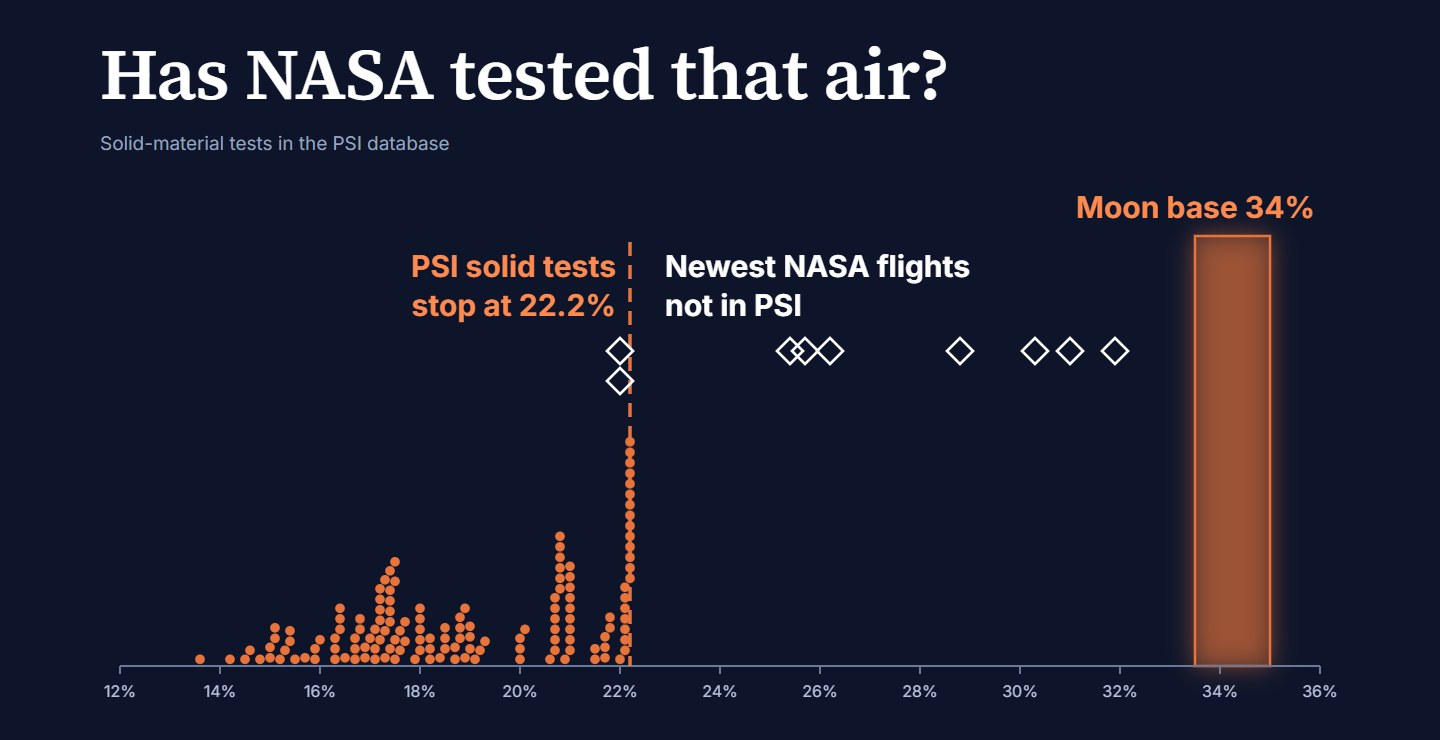
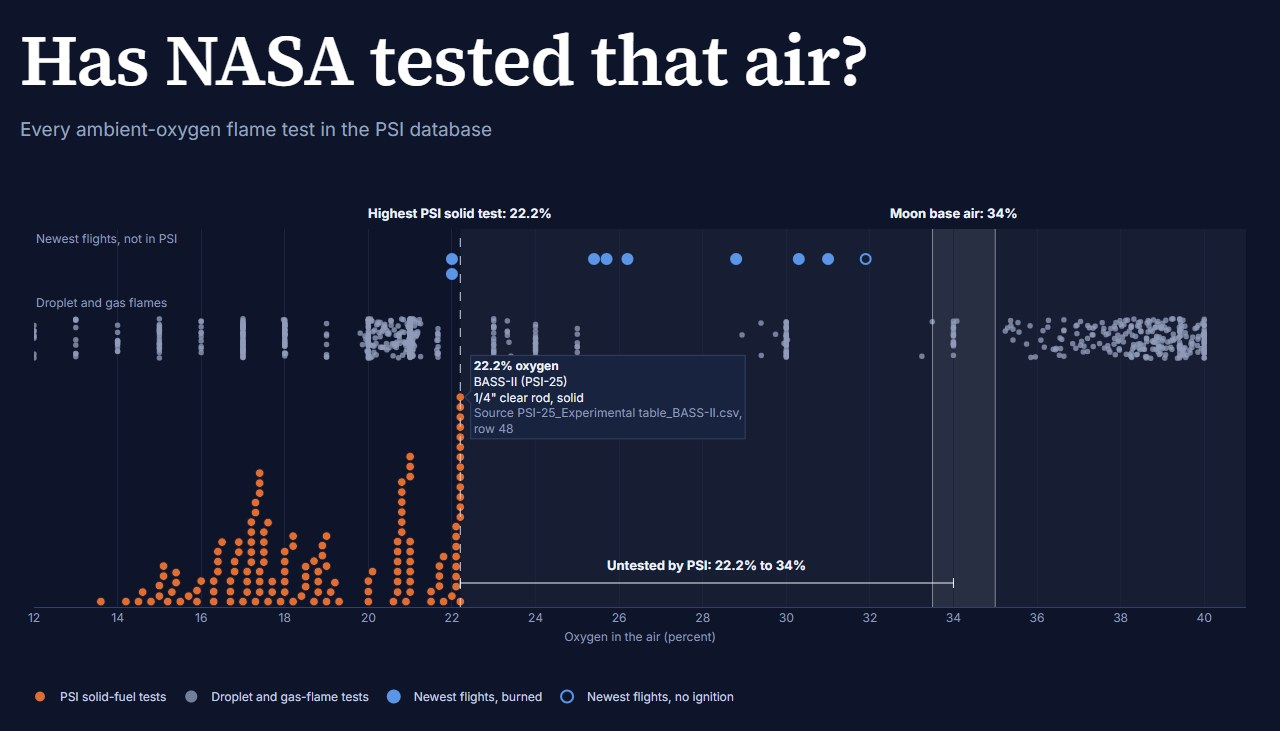
README and submission summary: Check any cabin air, fresh interactive chart images

diff --git a/README.md b/README.md
@@ -14,7 +14,9 @@ A Moon base is planned to run at about 34% oxygen. Across 2,009 NASA combustion 
 
 ![Home screen: verdict computed from NASA PSI data](docs/img/hero.jpg)
 
-![Solid-material tests in PSI stop at 22.2% oxygen; the Moon base is at 34%](docs/img/oxygen_gap.jpg)
+![Every ambient-oxygen PSI flame test; hover shows the source file and row. Solids stop at 22.2%, the Moon base is at 34%](docs/img/oxygen_gap.jpg)
+
+![Check any cabin air: drag oxygen and pressure; the NASA evidence, the model answer and the gravity allowance update live](docs/img/cabin_air.jpg)
 
 ## How it works
 
@@ -39,6 +41,7 @@ flowchart LR
 
 ## What sets it apart
 
+- **One gesture shows it all.** Drag a cabin's oxygen and pressure, or pick a habitat: the card counts the NASA tests in that air, names the closest one with its source row, runs the FLEX model or refuses with the distance, and adds the lunar gravity allowance. Every state has its own link.
 - **It knows where the evidence stops.** The model refuses habitats outside the tested range and says by how much. Moon base air is 0.14 atm below any FLEX test.
 - **Gravity, not just oxygen.** The lunar gravity check uses NASA Glenn's 2025 lunar-g tests: a 1-g margin can shrink by up to 2.3 O2 points, and some materials went the other way.
 - **The newest flights, as data.** The 9 Saffire IV-VI flight tests that are not in PSI yet are rows in the app, each tied to a verbatim quote from its NASA report. Six burned solids between 25.4% and 31.0% oxygen, above PSI's 22.2% ceiling.
@@ -48,7 +51,7 @@ flowchart LR
 
 | Objective | Where in the dashboard |
 |---|---|
-| Identify investigations most relevant to crew habitats | Rank: five habitats, re-weightable score, rank stability per row |
+| Identify investigations most relevant to crew habitats | Rank: five habitats, re-weightable score, rank stability per row. Home: Check any cabin air for any oxygen and pressure |
 | Extract data for predictive modelling | Data: a FLEX droplet model tested on held-out test days (AUC 0.85, Brier skill +0.35) that predicts for ISS air and refuses Moon air; where a model can be trusted (oxygen x pressure map); model readiness per habitat; CSV/JSON downloads |
 | Partial gravity (lunar habitat) | Data > Lunar gravity check: NASA GRC allowance per material (up to 2.3 O2 points), measured lunar-g direction, quenching vs blowoff |
 | Research for next-generation fire safety equipment | Investigations > Equipment: prevention, detection, suppression |
